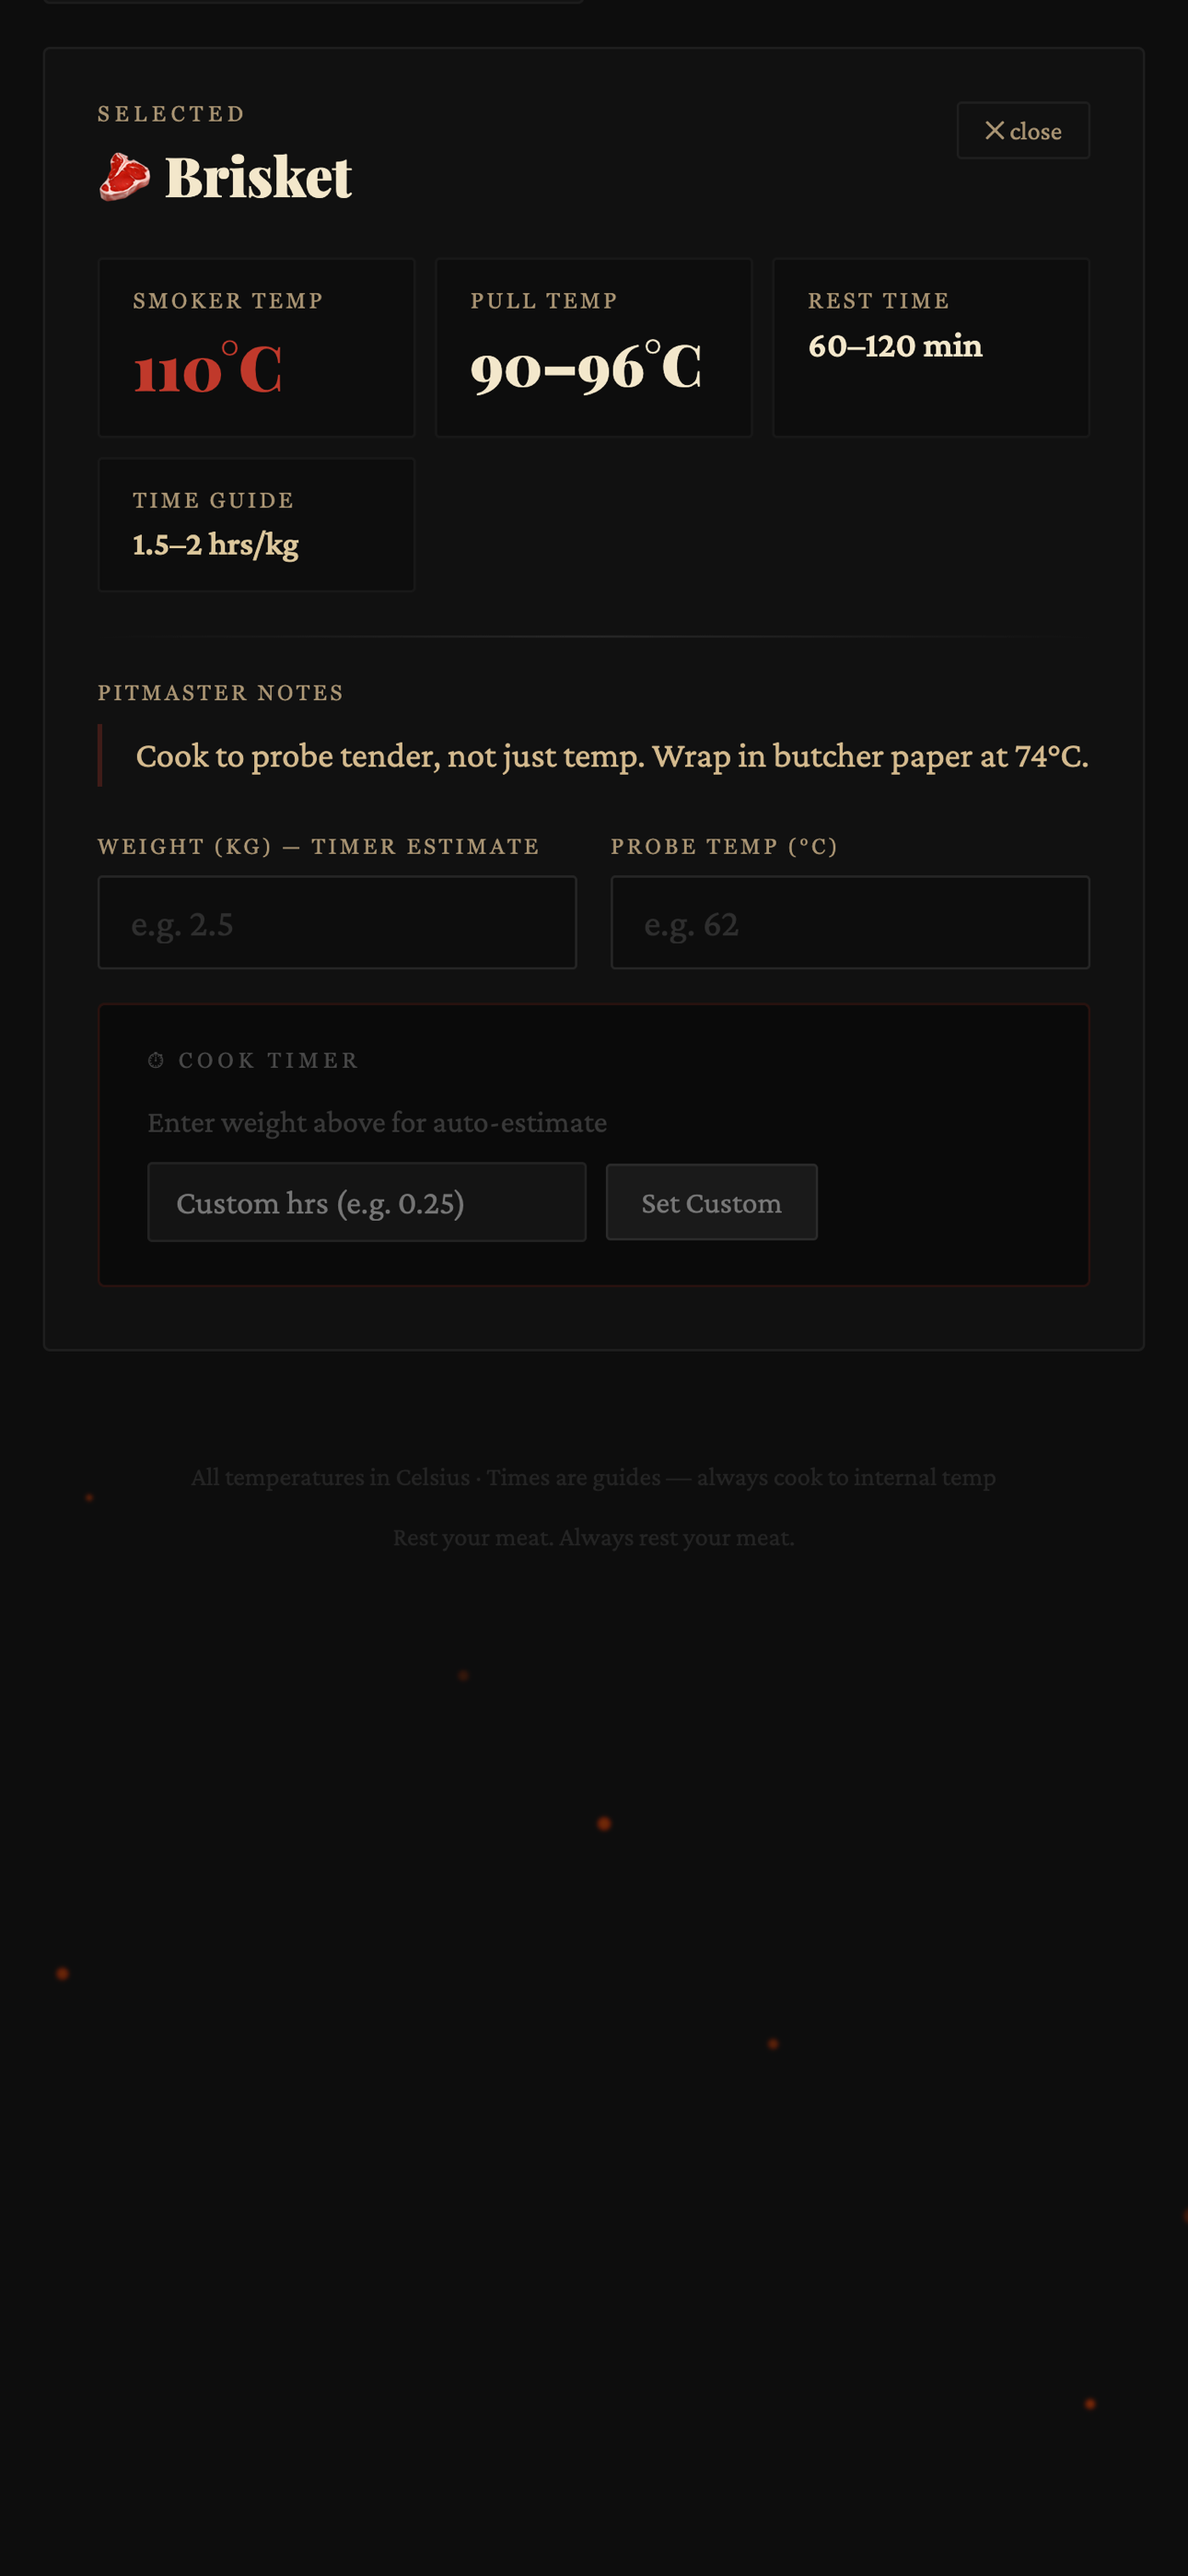
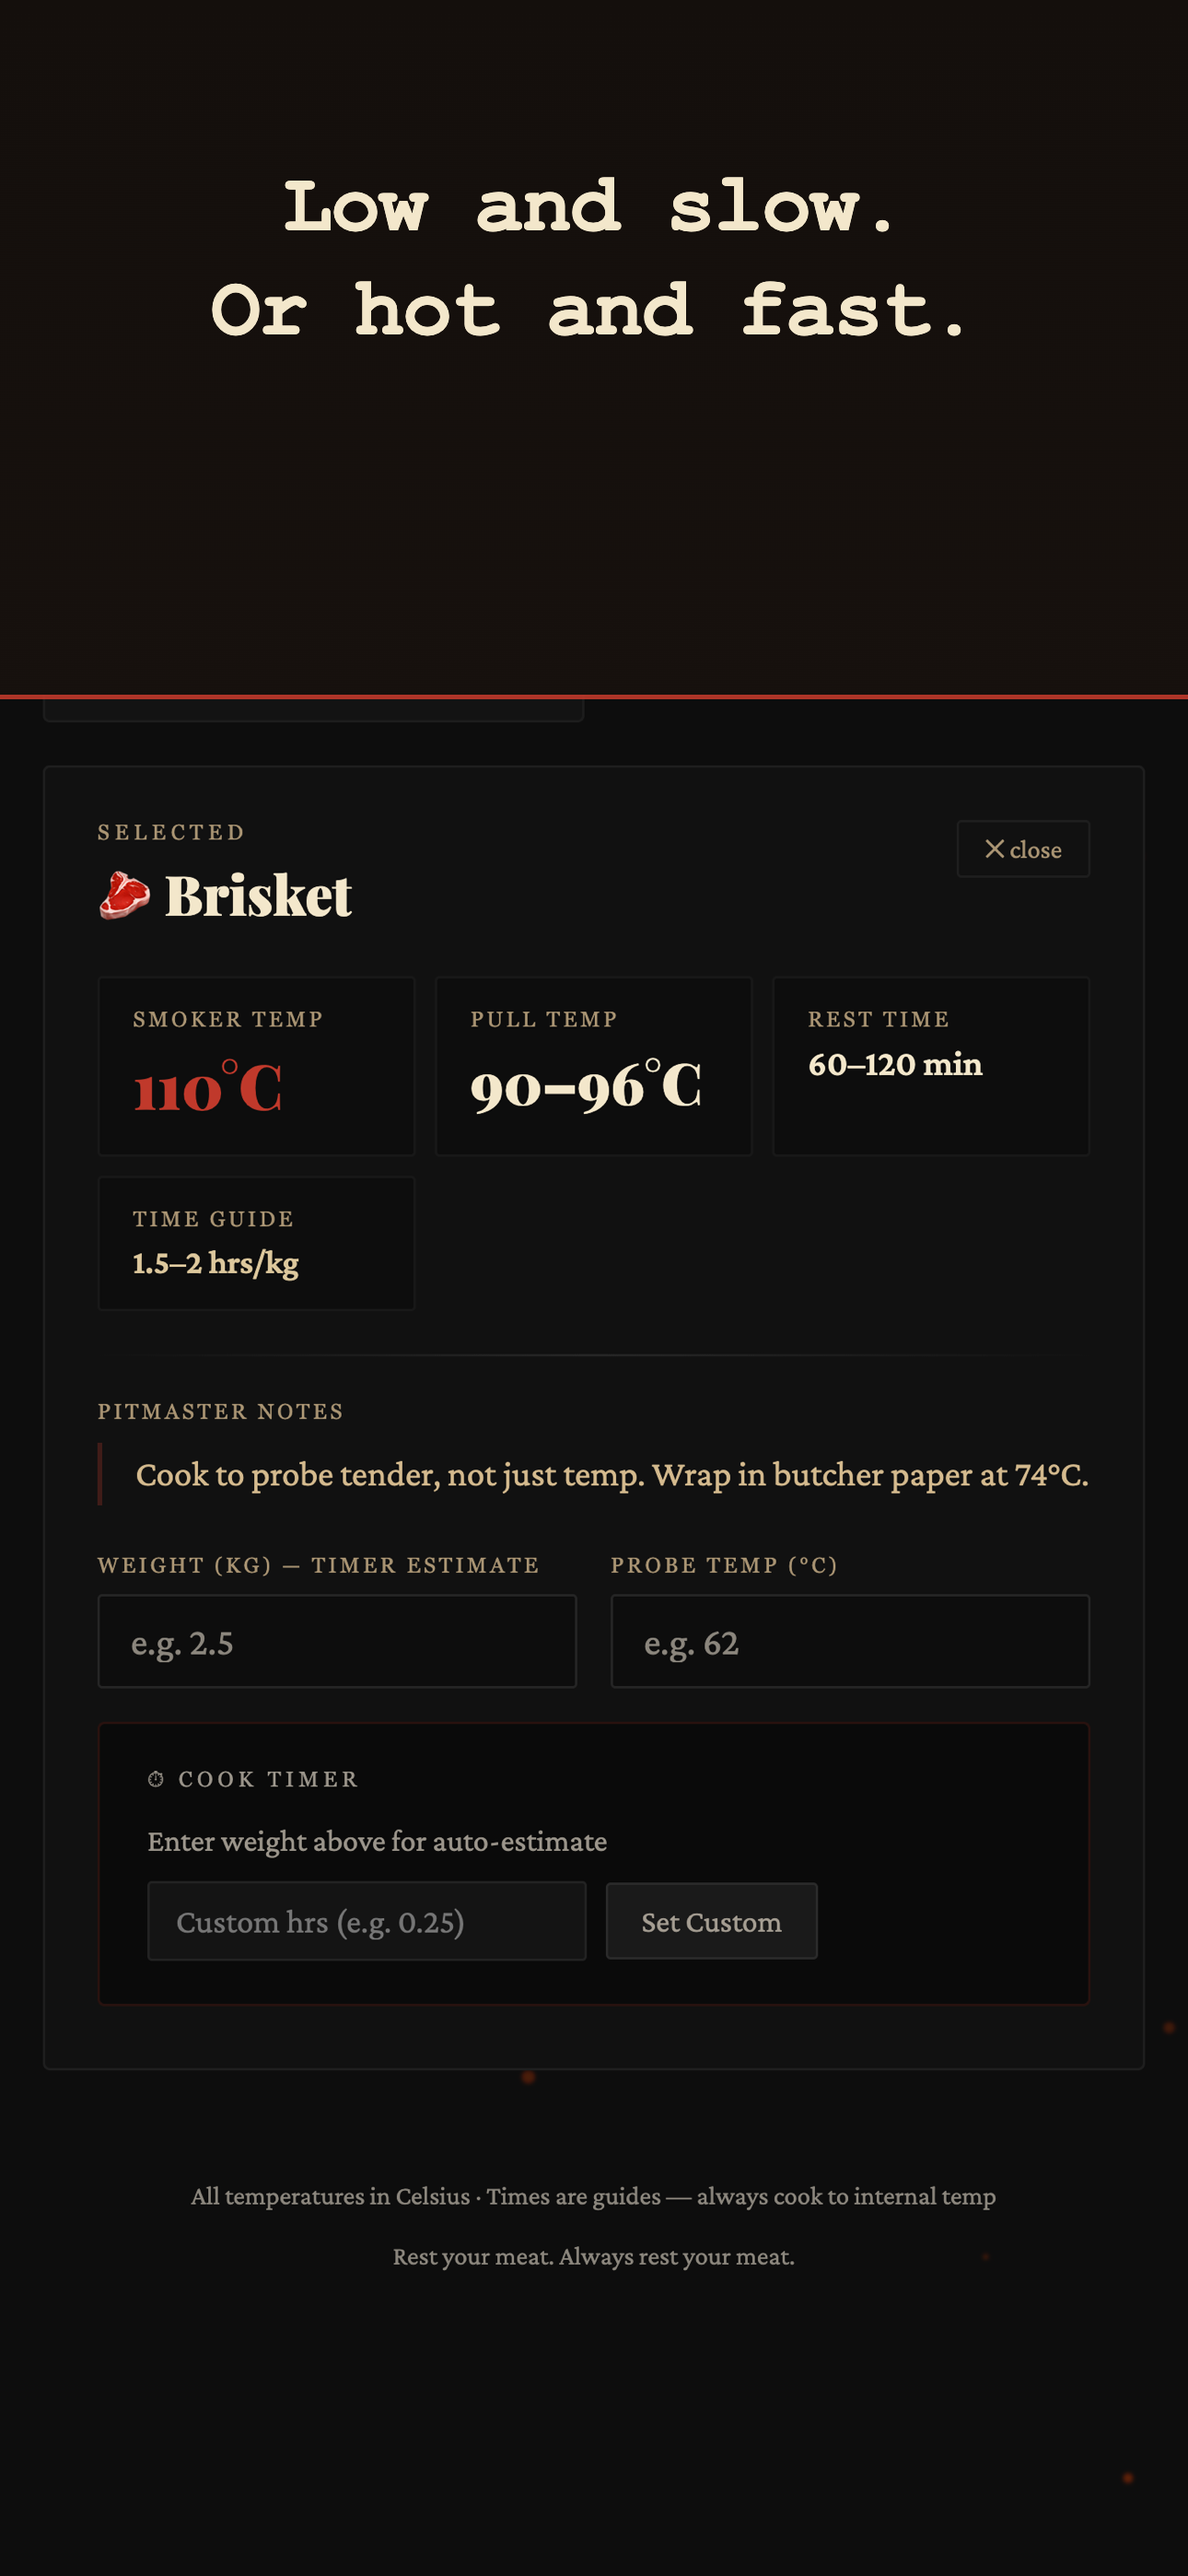
Fire & Smoke 1.1.0: one submission carrying everything
The whole train in one version: the rating prompt, the eleven contrast fixes,
the jump to the selected cut, captioned screenshots, the two App Store
creative assets, and the new store copy.

SCREENSHOTS. These were raw frames with no caption, and they also predated
the contrast work, so they were advertising the unreadable grey text. The
generator now composites a caption band in the same treatment Bin Chicken
uses - two lines of 21 characters or fewer so nothing wraps to three, legible
once Apple shrinks the shot into a search result. Cropping straight to the
card's shot area avoids scaling the capture twice, and the band is
proportional so Play and the App Store get the same design.

CREATIVE ASSETS. New: a product page header (21:9) and a search result asset
(3:2), the placements Apple otherwise fills by cropping your screenshots. A
cut with its numbers on screen - cook temp, pull temp, rest, timer - because
that is the whole product in one frame, which is what Apple asks a search
result to do. Both 3840 wide rather than the universal 5244 x 2950, since the
app renders at 500 CSS px and filling 5244 would mean upscaling.

COPY. Subtitle "BBQ meat temps & smoker times" - the old one omitted the two
words people type. Keyword field is cut names, because "brisket" has higher
intent and fewer competitors than "BBQ". Play short description now contains
BBQ, meat and offline.

Signed AAB verified: versionName 1.1.0, plugin in the dex, and the gate, the
[…]

diff --git a/store-assets/listing.md b/store-assets/listing.md
@@ -14,8 +14,40 @@ image** to supply — the two fields that caused trouble on the games do not app
 ## App title (max 30 chars — currently 12)
 Fire & Smoke
 
-## Short description (Play, max 80 — currently 65)
-Cook temps, pull temps and timings for 70 cuts. Smoker and grill.
+## Short description (Play, max 80 — currently 76)
+BBQ meat temperatures and cook times for 70 cuts. Smoker and grill. Offline.
+
+  Replaces "Cook temps, pull temps and timings for 70 cuts. Smoker and grill."
+  (65). Play weights the short description heavily for ranking, and the old
+  one omitted the two words people actually type: BBQ and meat. "Offline"
+  earns its place — a genuine differentiator and a term people search.
+
+## App Store-specific fields
+
+### Subtitle (max 30 — currently 29)
+BBQ meat temps & smoker times
+
+  Replaces "Cook & Pull Temps and Timings". Adds BBQ, meat and smoker while
+  keeping temps and times.
+
+### Keywords (max 100, comma-separated, NO SPACES — spaces cost characters.
+### Title and subtitle auto-index, so nothing here repeats fire/smoke/bbq/meat/temps/smoker/times. Currently 97.)
+brisket,pork,ribs,grill,barbecue,thermometer,doneness,steak,internal,lowandslow,pitmaster,smoking
+
+  Cut names ARE the strategy. Someone searching "brisket" has far higher
+  intent and far fewer competitors than someone searching "BBQ". This is the
+  only app in the portfolio with real, durable search demand behind it.
+
+### Promotional text (max 170 — currently 149, editable anytime without review)
+70 cuts with cook temp, pull temp and timing for smoker and grill. Celsius or Fahrenheit. Works with no signal at the fire. Free, no ads, no account.
+
+  Worth refreshing each Australian summer — this app's best fortnight of the year.
+
+### What's New (this version)
+Every label and reading is now properly readable — the dim grey text has been
+fixed throughout. Choosing a cut jumps straight to its numbers instead of
+leaving you to scroll. And Fire & Smoke can now ask for a rating once a cook
+timer has run its course.
 
 ## Full description (Play: max 4000 — currently 1280)
 
